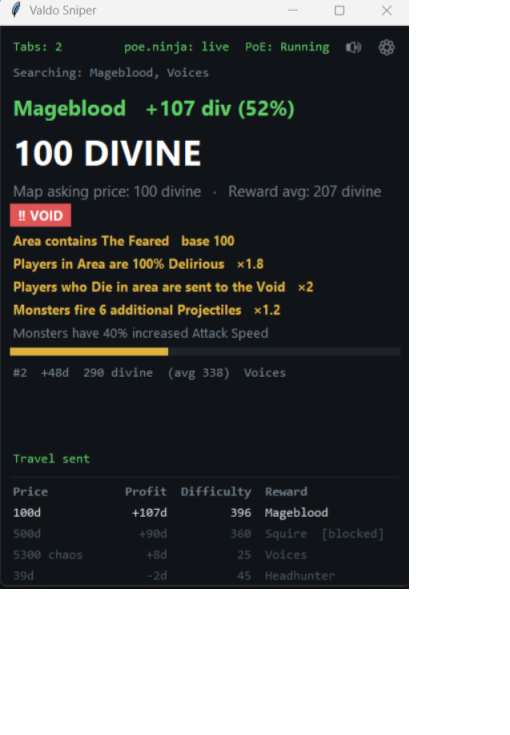
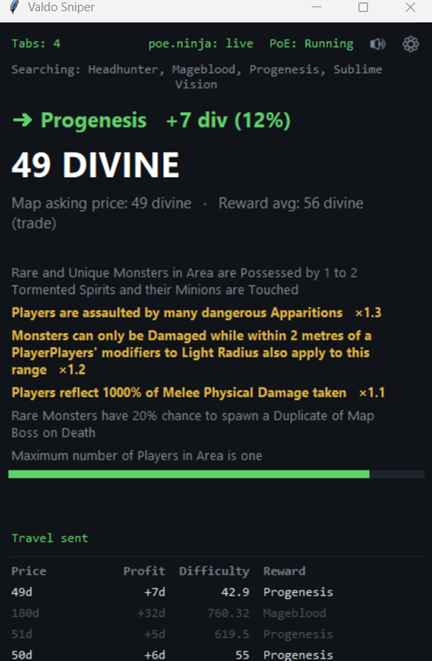
UI improvements

diff --git a/sniper/overlay.py b/sniper/overlay.py
@@ -170,9 +170,14 @@ class Overlay:
         feed_box = tk.Frame(root, bg=BG)
         feed_box.pack(side="bottom", fill="x", padx=10, pady=(2, 0))
         tk.Frame(feed_box, bg="#1d242c", height=1).pack(fill="x", pady=(0, 3))
+        self._threshold_note = tk.Label(
+            feed_box, text="", bg=BG, fg=DIM, font=("Consolas", 10), anchor="w"
+        )
+        self._threshold_note.pack(fill="x")
+        self._update_threshold_note()
         tk.Label(
             feed_box,
-            text=f"{'Price':<15}{'Profit':>7}{'Difficulty':>12}  Reward",
+            text=f"{'Price':<12}{'Profit':<9}{'Difficulty':<12}Reward",
             bg=BG,
             fg=DIM,
             font=("Consolas", 10, "bold"),
@@ -262,6 +267,11 @@ class Overlay:
         self._root.after(DRAIN_MS, self._drain)
 
     # ------------------------------------------------------------- rendering
+
+    def _update_threshold_note(self) -> None:
+        self._threshold_note.config(
+            text=f"Threshold: +{self._current_threshold:g}d profit per 100 difficulty"
+        )
 
     def _clear_frame(self, frame: tk.Frame) -> None:
         self._hide_tooltip()  # a hovered row may be getting destroyed
@@ -540,6 +550,7 @@ class Overlay:
             self._scoring_config = new_config
             self._current_threshold = new_threshold
             self._current_combo = new_combo
+            self._update_threshold_note()
             if save and self._overrides_path is not None:
                 save_scoring_overrides(
                     new_config,
@@ -575,7 +586,7 @@ class Overlay:
             fg = FG if e.verdict == "alert" else FAINT
             row = tk.Label(
                 self._feed,
-                text=f"{price:<15}{profit:>7}{e.difficulty:>12g}  {_display_name(e.key)}{note}",
+                text=f"{price:<12}{profit:<9}{e.difficulty:<12g}{_display_name(e.key)}{note}",
                 bg=BG,
                 fg=fg,
                 font=("Consolas", 10),
@@ -627,8 +638,8 @@ class Overlay:
                     row,
                     text=f"  {note}",
                     bg="#0a0d10",
-                    fg=BAD,
-                    font=("Consolas", 10, "bold"),
+                    fg=fg,  # note shares the mod's tier color
+                    font=("Consolas", 10, "bold" if level != "none" else "normal"),
                     anchor="e",
                 ).pack(side="right")
         x = widget.winfo_rootx() + 16

diff --git a/sniper/modrules.py b/sniper/modrules.py
@@ -116,6 +116,7 @@ class ModScoring:
         for mod in mods:
             notes: list[str] = []
             level = "none"
+            warn_color = None
             for compiled in matched:
                 if not any(m(mod) for m in compiled._matchers):
                     continue
@@ -126,5 +127,10 @@ class ModScoring:
                     notes.append(f"×{rule.multiplier:g}")
                 if rank[self._rule_level(rule)] > rank[level]:
                     level = self._rule_level(rule)
-            annotated.append((mod, " · ".join(dict.fromkeys(notes)), level))
+                if rule.warning and (warn_color != "red"):
+                    warn_color = rule.warning
+            # warning rules stamp their emoji on the mod line itself, so
+            # VOID/ULTIMATUM/etc. are marked wherever mods are listed
+            text = {"red": f"❗ {mod}", "yellow": f"⚠ {mod}"}.get(warn_color, mod)
+            annotated.append((text, " · ".join(dict.fromkeys(notes)), level))
         return tuple(annotated)

diff --git a/tests/test_modscoring.py b/tests/test_modscoring.py
@@ -197,3 +197,10 @@ def test_annotate_severity_tiers():
         ("×2.5", "red"),
         ("", "none"),
     ]
+
+
+def test_annotate_stamps_warning_emoji_on_mod_text():
+    void = SCORING.annotate(["Players who Die in area are sent to the Void"])
+    assert void == (("❗ Players who Die in area are sent to the Void", "×2", "red"),)
+    bismuth = SCORING.annotate(["Area contains a Bismuth Ore Deposit"])
+    assert bismuth == (("⚠ Area contains a Bismuth Ore Deposit", "", "none"),)
